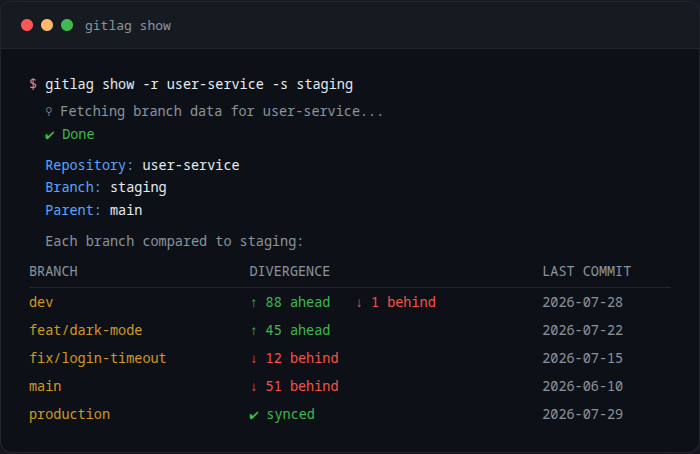
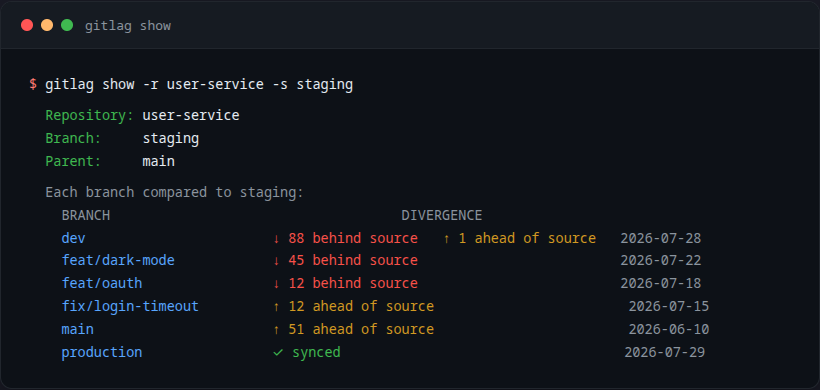
fix(show): correct direction labels and add progress bar
- fixed: swap ahead/behind direction labels, add IsContentSynced
- added: progress bar with per-slot status for table format
- added: dynamic column width, dates right-aligned via visibleLen

diff --git a/cmd/gitlag/cmd_show.go b/cmd/gitlag/cmd_show.go
@@ -11,6 +11,7 @@ import (
 	"strings"
 	"sync"
 	"text/tabwriter"
+	"time"
 
 	"github.com/mystaline/gitlag/internal/config"
 	"github.com/mystaline/gitlag/internal/gitea"
@@ -37,6 +38,11 @@ type DivergenceInfo struct {
 	EmptyBehindDiff  bool   `json:"empty_behind_diff"`
 	LastDate         string `json:"last_date"`
 	LastAuthor       string `json:"last_author"`
+}
+
+type showWorkerSlot struct {
+	branch string
+	status string
 }
 
 func showImpl(configPath string, noFetch bool, format, repoName, source string) error {
@@ -85,7 +91,6 @@ func showImpl(configPath string, noFetch bool, format, repoName, source string) 
 		Divergence:   make(map[string]DivergenceInfo),
 	}
 
-	// Filter branches
 	var targets []string
 	for _, b := range branches {
 		if b == source {
@@ -97,32 +102,116 @@ func showImpl(configPath string, noFetch bool, format, repoName, source string) 
 		targets = append(targets, b)
 	}
 
-	// Concurrent compare
-	var mu sync.Mutex
 	maxWorkers := runtime.NumCPU()
-	sem := make(chan struct{}, maxWorkers)
-	var wg sync.WaitGroup
+	var (
+		resultsMu      sync.Mutex
+		wg             sync.WaitGroup
+		semaphore      = make(chan struct{}, maxWorkers)
+		completedCount int
+		completedMu    sync.Mutex
+		workerStates   = make([]showWorkerSlot, maxWorkers)
+		statesMu       sync.Mutex
+		done           chan bool
+	)
+
+	if format == "table" && len(targets) > 0 {
+		fmt.Print("\033[s")
+		done = make(chan bool)
+		go func() {
+			ticker := time.NewTicker(100 * time.Millisecond)
+			defer ticker.Stop()
+			for {
+				select {
+				case <-done:
+					return
+				case <-ticker.C:
+					statesMu.Lock()
+					completedMu.Lock()
+
+					fmt.Print("\033[u\033[J")
+
+					percent := float64(completedCount) / float64(len(targets)) * 100
+					barWidth := 30
+					filled := int(float64(barWidth) * float64(completedCount) / float64(len(targets)))
+					bar := strings.Repeat("█", filled) + strings.Repeat("░", barWidth-filled)
+
+					fmt.Printf("%s 📊 Comparing branches: [%s] %.0f%% (%d/%d)%s\n",
+						colorCyan, bar, percent, completedCount, len(targets), colorReset)
+
+					for i, state := range workerStates {
+						if state.branch != "" {
+							fmt.Printf("   %sSlot %d:%s %-30s %s%s%s\n",
+								colorFaint, i+1, colorReset, state.branch,
+								colorYellow, state.status, colorReset)
+						} else {
+							fmt.Printf("   %sSlot %d:%s %s-- idle --%s\n",
+								colorFaint, i+1, colorReset, colorFaint, colorReset)
+						}
+					}
+
+					completedMu.Unlock()
+					statesMu.Unlock()
+				}
+			}
+		}()
+	}
 
 	for _, target := range targets {
 		wg.Add(1)
-		sem <- struct{}{}
+		semaphore <- struct{}{}
+
 		go func(target string) {
-			defer wg.Done()
-			defer func() { <-sem }()
+			slot := -1
+			statesMu.Lock()
+			for s := 0; s < maxWorkers; s++ {
+				if workerStates[s].branch == "" {
+					slot = s
+					workerStates[slot].branch = target
+					workerStates[slot].status = "comparing..."
+					break
+				}
+			}
+			statesMu.Unlock()
+
+			defer func() {
+				statesMu.Lock()
+				workerStates[slot].branch = ""
+				workerStates[slot].status = ""
+				statesMu.Unlock()
+
+				completedMu.Lock()
+				completedCount++
+				completedMu.Unlock()
+				<-semaphore
+				wg.Done()
+			}()
+
+			statesMu.Lock()
+			workerStates[slot].status = "API compare..."
+			statesMu.Unlock()
 
 			cmpr, apiErr := repoClient.CompareBranches(targetOrg, repoName, source, target)
 			if apiErr != nil {
-				fmt.Fprintf(os.Stderr, "%s ⚠ %s vs %s: %v%s\n", colorYellow, source, target, apiErr, colorReset)
+				statesMu.Lock()
+				workerStates[slot].status = "branch info..."
+				statesMu.Unlock()
+
+				fmt.Fprintf(os.Stderr, "\n%s⚠ %s vs %s: %v%s\n", colorYellow, source, target, apiErr, colorReset)
 				return
 			}
 			if cmpr == nil {
 				return
 			}
 
+			statesMu.Lock()
+			workerStates[slot].status = "branch info..."
+			statesMu.Unlock()
+
 			branchInfo, _ := repoClient.GetBranchInfo(targetOrg, repoName, target)
+			contentSynced := (cmpr.AheadBy == 0 || cmpr.EmptyAheadDiff) && (cmpr.BehindBy == 0 || cmpr.EmptyBehindDiff)
 			lastDate, lastAuthor := parseBranchInfo(branchInfo)
 
-			mu.Lock()
+			resultsMu.Lock()
 			result.Divergence[target] = DivergenceInfo{
 				AheadCount:      cmpr.AheadBy,
 				BehindCount:     cmpr.BehindBy,
@@ -134,11 +223,21 @@ func showImpl(configPath string, noFetch bool, format, repoName, source string) 
 				EmptyBehindDiff: cmpr.EmptyBehindDiff,
 				LastDate:        lastDate,
 				LastAuthor:      lastAuthor,
+				IsContentSynced: contentSynced,
 			}
-			mu.Unlock()
+			resultsMu.Unlock()
 		}(target)
 	}
 	wg.Wait()
+
+	if done != nil {
+		done <- true
+	}
+
+	if format == "table" && len(targets) > 0 {
+		fmt.Print("\033[u\033[J")
+		fmt.Printf("%s ✅ Branch comparison complete%s\n", colorBold+colorGreen, colorReset)
+	}
 
 	switch format {
 	case "json":
@@ -152,7 +251,6 @@ func showImpl(configPath string, noFetch bool, format, repoName, source string) 
 	}
 	return nil
 }
-
 func detectParentAPI(branches []string, source string, cfg *config.Config) string {
 	for _, b := range branches {
 		if b == source {
@@ -196,24 +294,37 @@ func outputShowTable(result ScanResult) {
 		return
 	}
 
-	fmt.Fprintf(w, "\n%sEach branch compared to %s:%s\n", colorFaint, result.SourceBranch, colorReset)
-	fmt.Fprintf(w, "  %s%-38s %s\n", colorFaint+"BRANCH"+colorReset, "", "DIVERGENCE")
-
 	var targets []string
 	for t := range result.Divergence {
 		targets = append(targets, t)
 	}
 	sort.Strings(targets)
 
+	maxBranchLen := len("BRANCH")
+	for _, b := range targets {
+		if len(b) > maxBranchLen {
+			maxBranchLen = len(b)
+		}
+	}
+
+	type rowOut struct {
+		col  string
+		date string
+	}
+
+	colMinPad := 4
+	var rows []rowOut
+	maxColVis := 0
+
 	for _, targetBranch := range targets {
 		div := result.Divergence[targetBranch]
 
 		var parts []string
 		if div.AheadCount > 0 && !div.EmptyAheadDiff {
-			parts = append(parts, fmt.Sprintf("%s↑ %d ahead of source%s", colorYellow, div.AheadCount, colorReset))
+			parts = append(parts, fmt.Sprintf("%s↓ %d behind source%s", colorRed, div.AheadCount, colorReset))
 		}
 		if div.BehindCount > 0 && !div.EmptyBehindDiff {
-			parts = append(parts, fmt.Sprintf("%s↓ %d behind source%s", colorRed, div.BehindCount, colorReset))
+			parts = append(parts, fmt.Sprintf("%s↑ %d ahead of source%s", colorYellow, div.BehindCount, colorReset))
 		}
 		if div.IsContentSynced {
 			parts = append(parts, fmt.Sprintf("%s≡ identical content%s", colorCyan, colorReset))
@@ -231,12 +342,36 @@ func outputShowTable(result ScanResult) {
 
 		divergence := strings.Join(parts, "   ")
 
-		line := fmt.Sprintf("  %s%-36s%s %s", colorCyan, targetBranch, colorReset, divergence)
-		if div.LastDate != "" {
-			line += fmt.Sprintf("   %s%s%s", colorFaint, div.LastDate, colorReset)
+		pad := maxBranchLen - len(targetBranch)
+		if pad < 0 { pad = 0 }
+		col := fmt.Sprintf("  %s%s%s%*s %s", colorCyan, targetBranch, colorReset, pad, "", divergence)
+
+		colVis := visibleLen(col)
+		rows = append(rows, rowOut{col: col, date: div.LastDate})
+		if colVis > maxColVis {
+			maxColVis = colVis
+		}
+	}
+
+	fmt.Fprintf(w, "\n%sEach branch compared to %s:%s\n", colorFaint, result.SourceBranch, colorReset)
+	fmt.Fprintf(w, "  %sBRANCH%s%*s %sDIVERGENCE%s\n", colorFaint, colorReset, maxBranchLen-len("BRANCH"), "", colorFaint, colorReset)
+
+	for _, r := range rows {
+		line := r.col
+		if r.date != "" {
+			cur := visibleLen(line)
+			pad := maxColVis - cur + colMinPad
+			if pad < colMinPad { pad = colMinPad }
+			line += strings.Repeat(" ", pad) + colorFaint + r.date + colorReset
 		}
 		fmt.Fprintf(w, "%s\n", line)
 	}
+}
+func visibleLen(s string) int {
+	for _, seq := range []string{"\033[0m", "\033[1m", "\033[2m", "\033[31m", "\033[32m", "\033[33m", "\033[36m"} {
+		s = strings.ReplaceAll(s, seq, "")
+	}
+	return len(s)
 }
 
 func outputShowCSV(result ScanResult) {

diff --git a/assets/README.md b/assets/README.md
@@ -1,0 +1,1 @@
+# Assets directory
